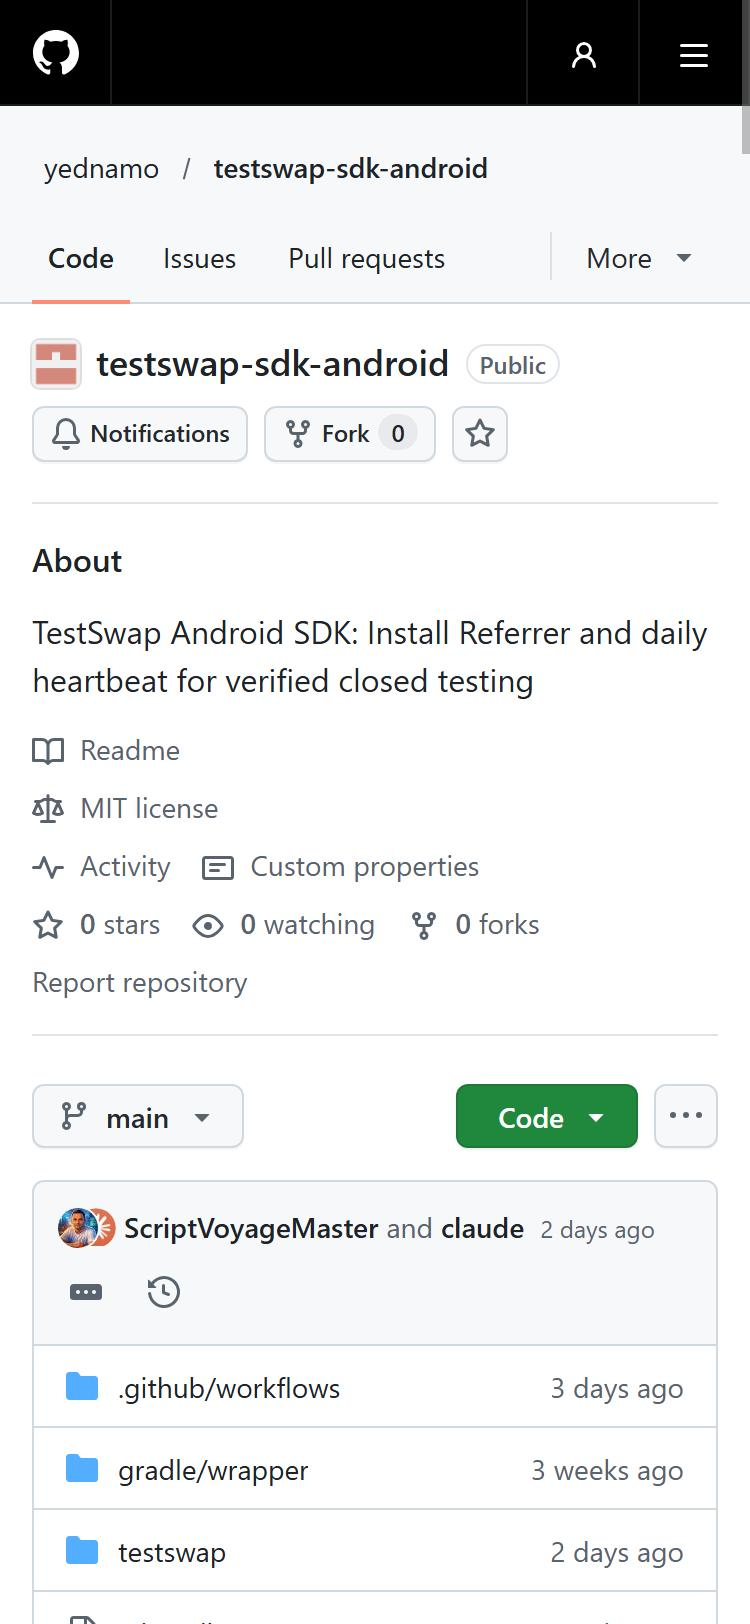
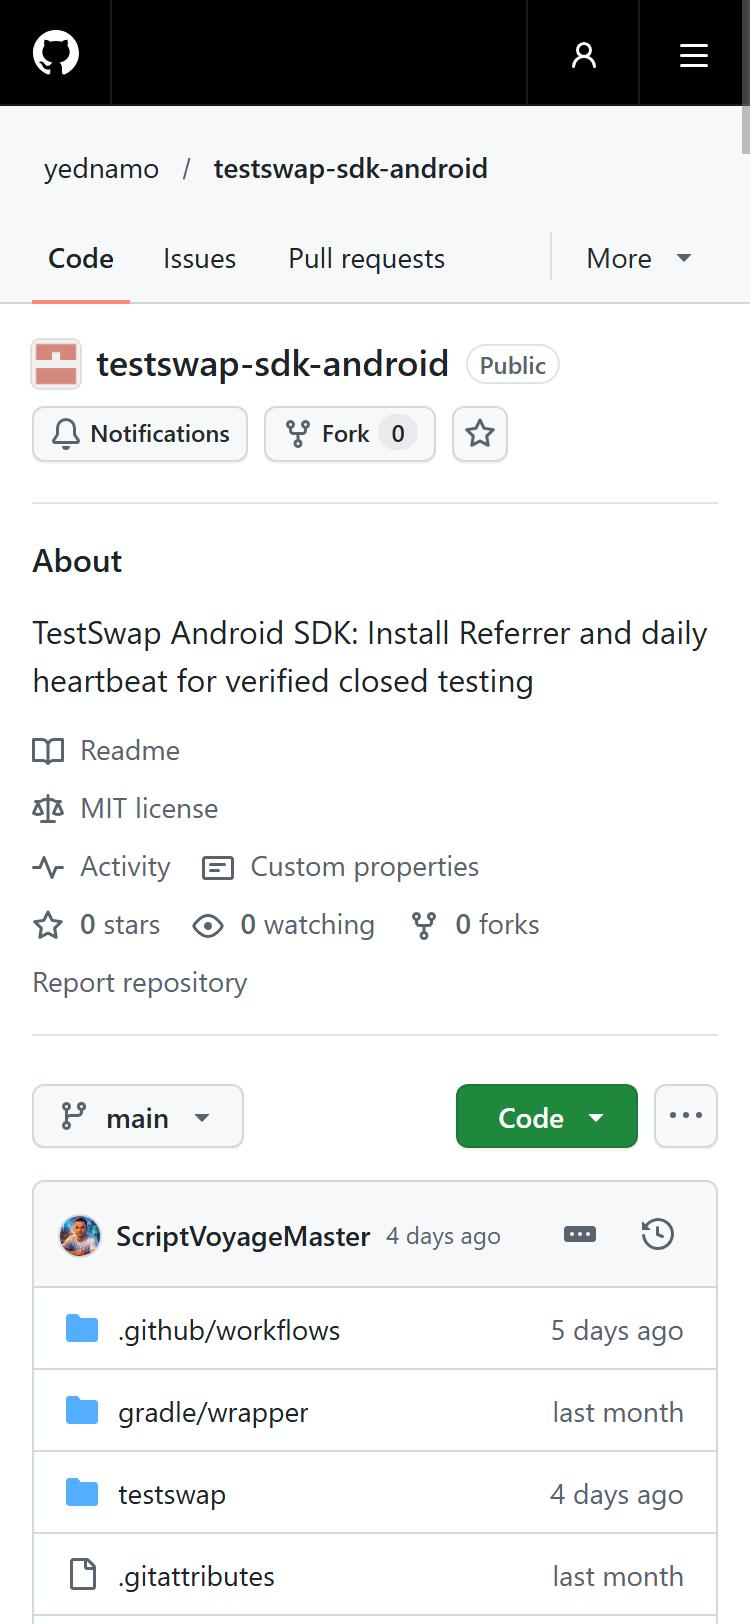
Інструкції: посилання на сторінки сайту /guide, тут копії (#14)

diff --git a/README.md b/README.md
@@ -8,10 +8,10 @@ as Google requires for new personal developer accounts.
 
 ## Українською
 
-- [Покрокова інструкція для тестувальника](uk/guide-tester.md) зі скріншотами: вхід, група Google, встановлення,
-  14 днів, відгук.
-- [Покрокова інструкція для розробника](uk/guide-developer.md) зі скріншотами: Play Console, розміщення, звідки
-  взяти SDK і як підключити.
+- [Покрокова інструкція для тестувальника](https://testswap.yednamo.com/guide/tester) зі скріншотами: вхід, група
+  Google, встановлення, 14 днів, відгук (копія тут: [uk/guide-tester.md](uk/guide-tester.md)).
+- [Покрокова інструкція для розробника](https://testswap.yednamo.com/guide/dev) зі скріншотами: Play Console,
+  розміщення, звідки взяти SDK і як підключити (копія тут: [uk/guide-developer.md](uk/guide-developer.md)).
 - [Тестувальнику](uk/tester.md): як взяти участь у тесті й отримати бали.
 - [Розробнику](uk/developer.md): як розмістити застосунок і налаштувати Play Console.
 - [SDK для Android](uk/sdk.md): автоматичне підтвердження встановлення й днів тесту.
@@ -19,10 +19,10 @@ as Google requires for new personal developer accounts.
 
 ## English
 
-- [Step-by-step guide for testers](en/guide-tester.md) with screenshots: sign-in, Google group, install, 14 days,
-  feedback.
-- [Step-by-step guide for developers](en/guide-developer.md) with screenshots: Play Console, listing, where to get
-  the SDK and how to add it.
+- [Step-by-step guide for testers](https://testswap.yednamo.com/en/guide/tester) with screenshots: sign-in, Google
+  group, install, 14 days, feedback (copy here: [en/guide-tester.md](en/guide-tester.md)).
+- [Step-by-step guide for developers](https://testswap.yednamo.com/en/guide/dev) with screenshots: Play Console,
+  listing, where to get the SDK and how to add it (copy here: [en/guide-developer.md](en/guide-developer.md)).
 - [For testers](en/tester.md): how to take part in a test and earn points.
 - [For developers](en/developer.md): how to list an app and set up Play Console.
 - [Android SDK](en/sdk.md): automatic confirmation of installation and test days.

diff --git a/uk/guide-tester.md b/uk/guide-tester.md
@@ -1,5 +1,8 @@
 # Покрокова інструкція для тестувальника
 
+> Ця інструкція є і на сайті, зі змістом і тими самими скріншотами: https://testswap.yednamo.com/guide/tester.
+> Джерело тексту — репозиторій testswap-web (`web/src/guides/uk/tester.md`); тут копія.
+
 Як знайти застосунок, вступити в групу тестувальників, встановити застосунок і пройти 14 днів. Коротка довідка
 без скріншотів: [Тестувальнику](tester.md), [Правила й бали](rules.md).
 

diff --git a/uk/guide-developer.md b/uk/guide-developer.md
@@ -1,5 +1,8 @@
 # Покрокова інструкція для розробника
 
+> Ця інструкція є і на сайті, зі змістом і тими самими скріншотами: https://testswap.yednamo.com/guide/dev.
+> Джерело тексту — репозиторій testswap-web (`web/src/guides/uk/dev.md`); тут копія.
+
 Як розмістити застосунок у TestSwap, звідки взяти SDK і як його підключити. Коротка довідка без скріншотів:
 [Розробнику](developer.md), [SDK](sdk.md), [Правила й бали](rules.md).
 

diff --git a/en/guide-developer.md b/en/guide-developer.md
@@ -1,5 +1,9 @@
 # Step-by-step guide for developers
 
+> This guide is also on the site, with a table of contents and the same screenshots:
+> https://testswap.yednamo.com/en/guide/dev. The text lives in the testswap-web repository
+> (`web/src/guides/en/dev.md`); this is a copy.
+
 How to list an app on TestSwap, where to get the SDK and how to add it to your code. Short reference without
 screenshots: [For developers](developer.md), [SDK](sdk.md), [Rules and points](rules.md).
 

diff --git a/en/guide-tester.md b/en/guide-tester.md
@@ -1,5 +1,9 @@
 # Step-by-step guide for testers
 
+> This guide is also on the site, with a table of contents and the same screenshots:
+> https://testswap.yednamo.com/en/guide/tester. The text lives in the testswap-web repository
+> (`web/src/guides/en/tester.md`); this is a copy.
+
 How to find an app, join the testers group, install the app and get through 14 days. Short reference without
 screenshots: [For testers](tester.md), [Rules and points](rules.md).
 
